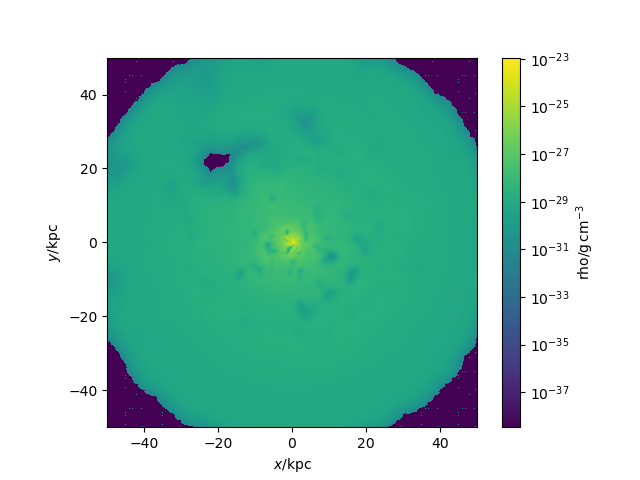
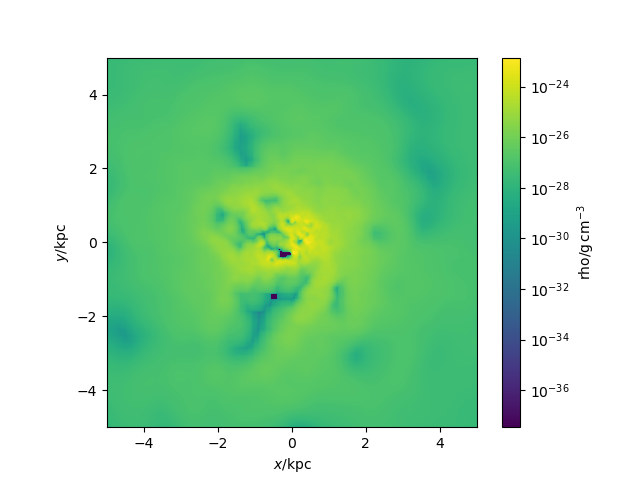
updated

diff --git a/makingpics_denslice.py b/makingpics_denslice.py
@@ -13,7 +13,8 @@ s.physical_units()
 pynbody.analysis.angmom.faceon(s)
 
 #creating gas density slice
-sph.image(s.g,qty="rho",units="g cm^-3",width=100)
+sph.image(s.g,qty="rho",units="g cm^-3",width=10)
 
+#plt.show()
 plt.savefig("denslice.png")
 

diff --git a/makingpics_tempslice.py b/makingpics_tempslice.py
@@ -26,4 +26,5 @@ plt.xlabel("X-axis")
 plt.ylabel("Y-axis")
 plt.title('Gas temp')
 
-plt.show()
+#plt.show()
+plt.savefig("gashist.png")
